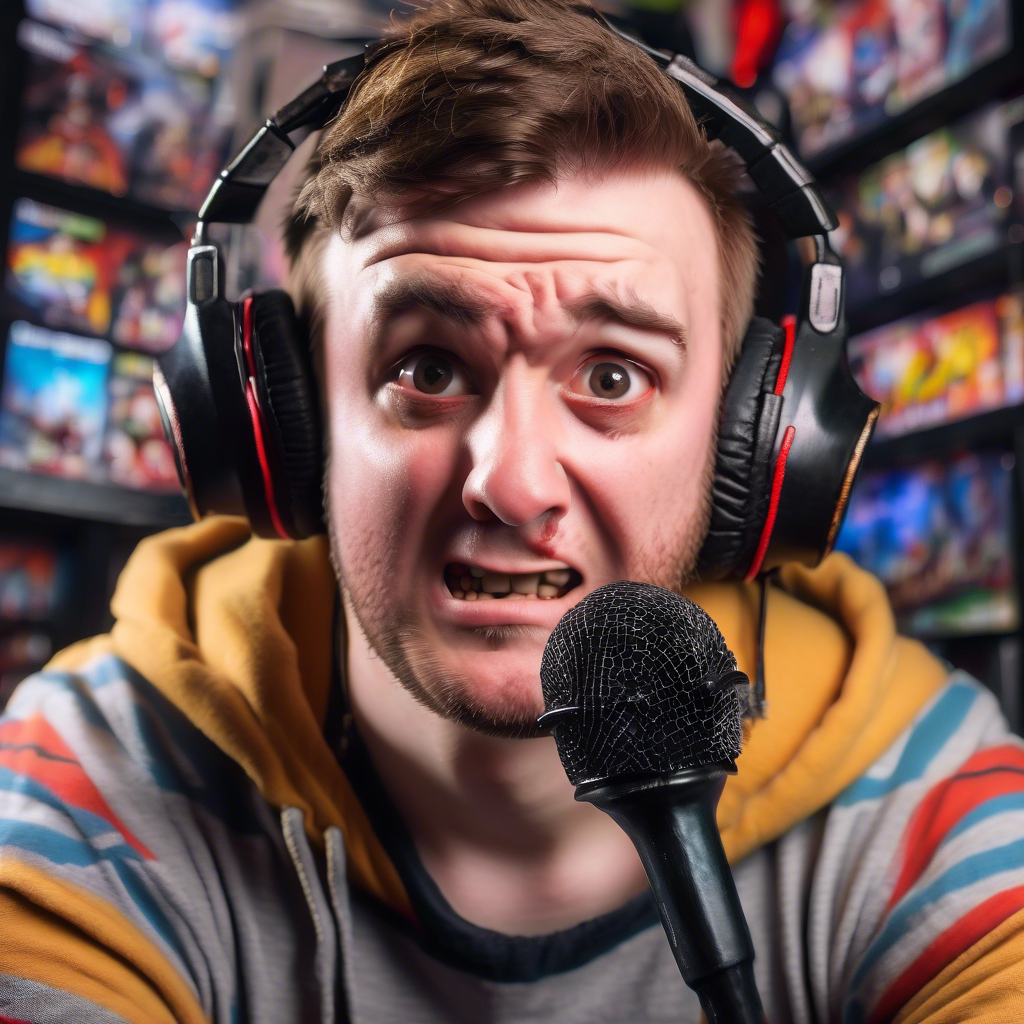
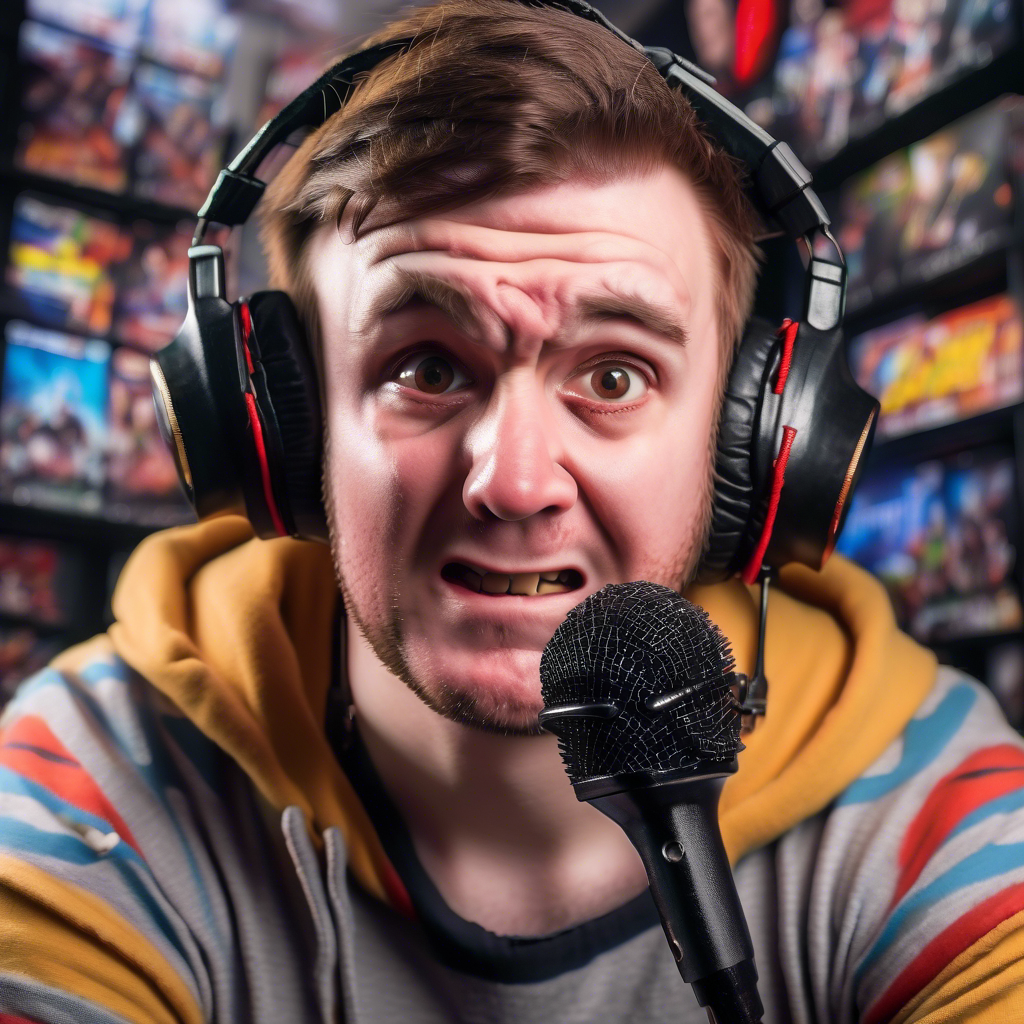
final

diff --git a/src/emotion_change.py b/src/emotion_change.py
@@ -12,8 +12,8 @@ api_key = os.getenv("STABILITY_API_KEY")
 
 img_prompt = "A British male in his late twenties wearing gamer fashion and is really into movie culture on a live stream face cam speaking to a microphone"
 
-emotion_prompts=[("Make him angry","angry"),("Make him have a neutral expression","neutral"),("Make him sad","sad"),("Make him laugh","laughing"),("Make him confused","confused"),("Make him cringe","cringing"),("Make him excited","excited"),("Make him shocked","shocked")]
-
+##emotion_prompts=[("Make him angry","angry"),("Make him have a neutral expression","neutral"),("Make him sad","sad"),("Make him laugh","laughing"),("Make him confused","confused"),("Make him cringe","cringing"),("Make him excited","excited"),("Make him shocked","shocked")]
+emotion_prompts=[("Make him angry","angry")]
 if api_key is None:
     raise Exception("Missing Stability API key.")
 
@@ -42,6 +42,8 @@ for i in emotion_prompts:
         raise Exception("Non-200 response: " + str(response.text))
 
     data = response.json()
+
+    print(data["artifacts"][0].keys())
 
     for j, image in enumerate(data["artifacts"]):
         with open(f"./out/{i[1]}_guy.png", "wb") as f:
